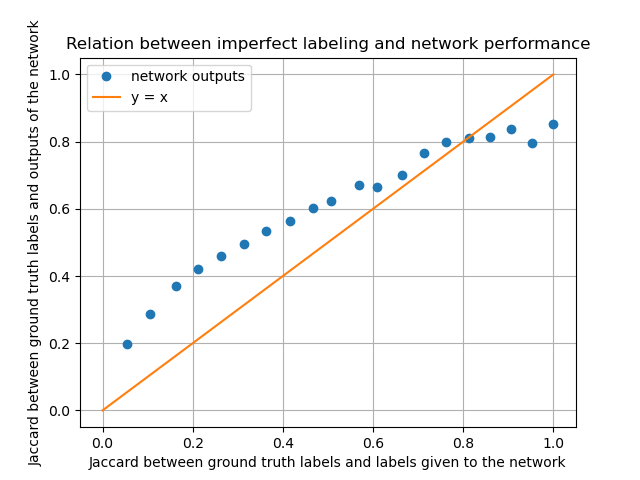
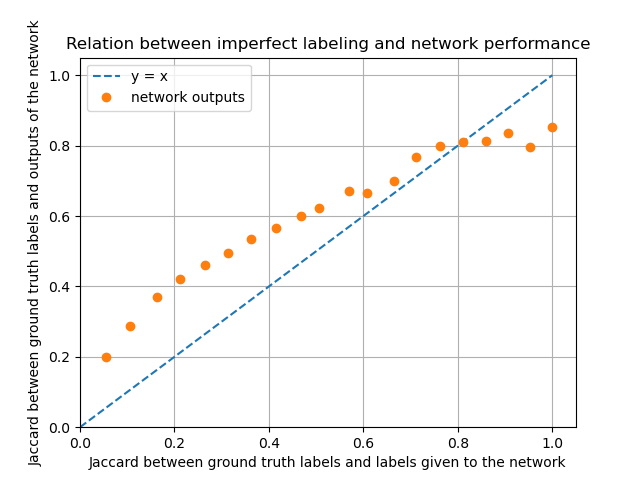
taille and oubli grpahs

diff --git a/graph.py b/graph.py
@@ -47,10 +47,10 @@ elif train_type == 'taille':
 plt.figure()
 if train_type == 'oubli':
 	plt.plot([0,1],[0,1],'--', label='y = x')
-	plt.plot(data_0[:,0],data_0[:,1],'o',label='run 0')
-	plt.plot(data_1[:,0],data_1[:,1],'o',label='run 1')
-	plt.plot(data_2[:,0],data_2[:,1],'o',label='run 2')
-	plt.plot(data_3[:,0],data_3[:,1],'o',label='run 3')
+	plt.plot(data_0[:,0],data_0[:,1],'o',label='network outputs')
+	# plt.plot(data_1[:,0],data_1[:,1],'o',label='run 1')
+	# plt.plot(data_2[:,0],data_2[:,1],'o',label='run 2')
+	# plt.plot(data_3[:,0],data_3[:,1],'o',label='run 3')
 elif train_type == 'taille':
 	plt.plot([0,0.6],[0,0.6],'--', label='y = x')
 	plt.plot(data[0,:],data[1,:],'o',label='network outputs')
